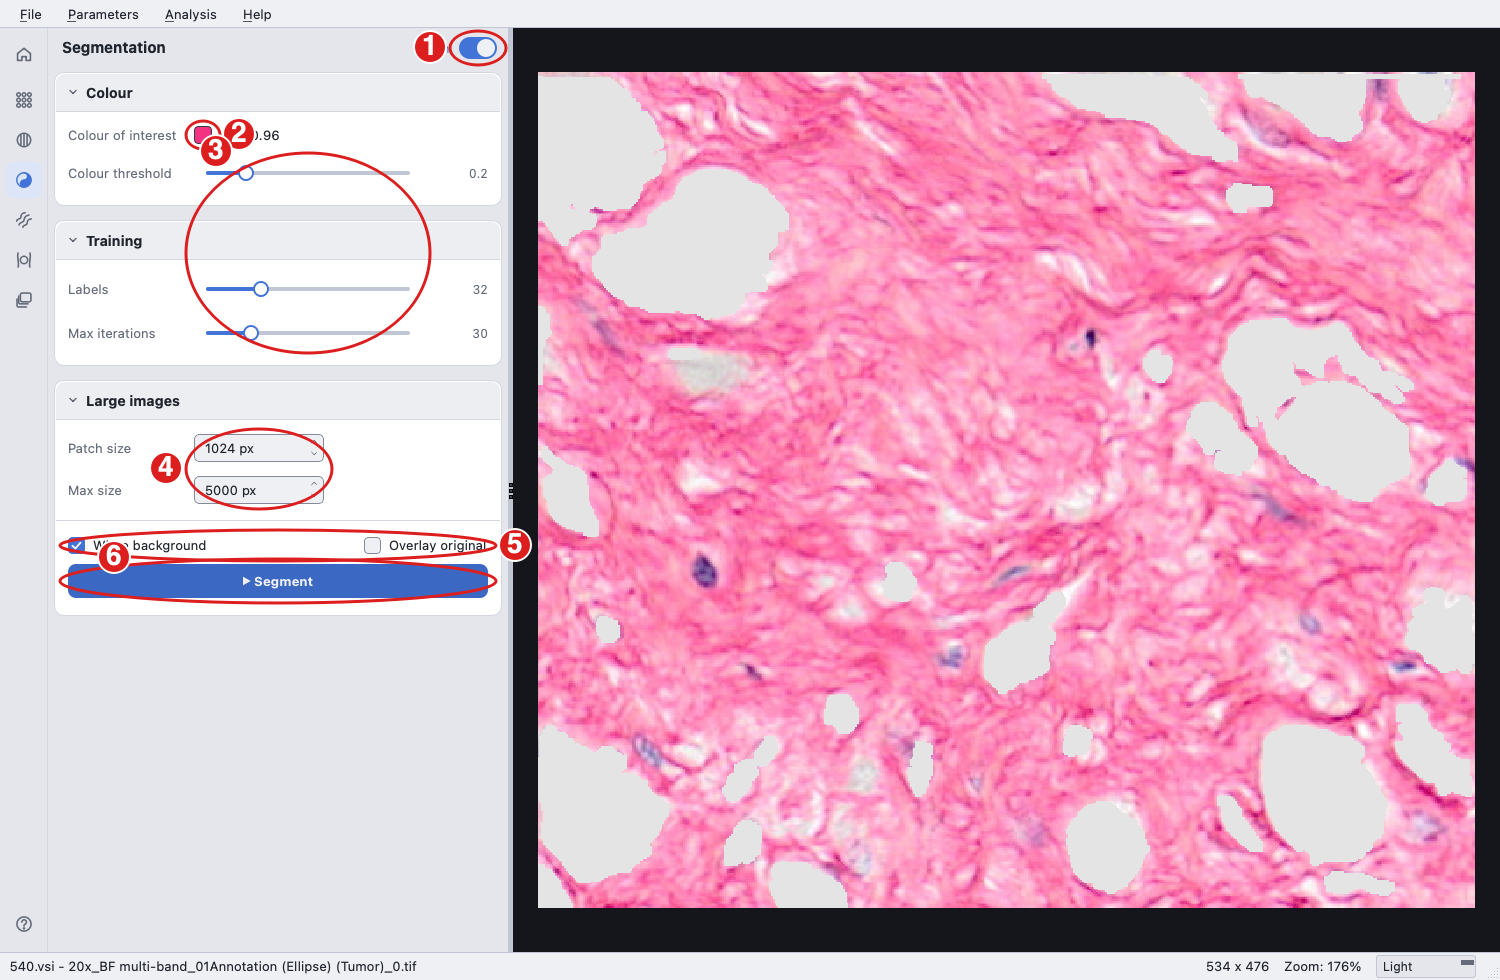
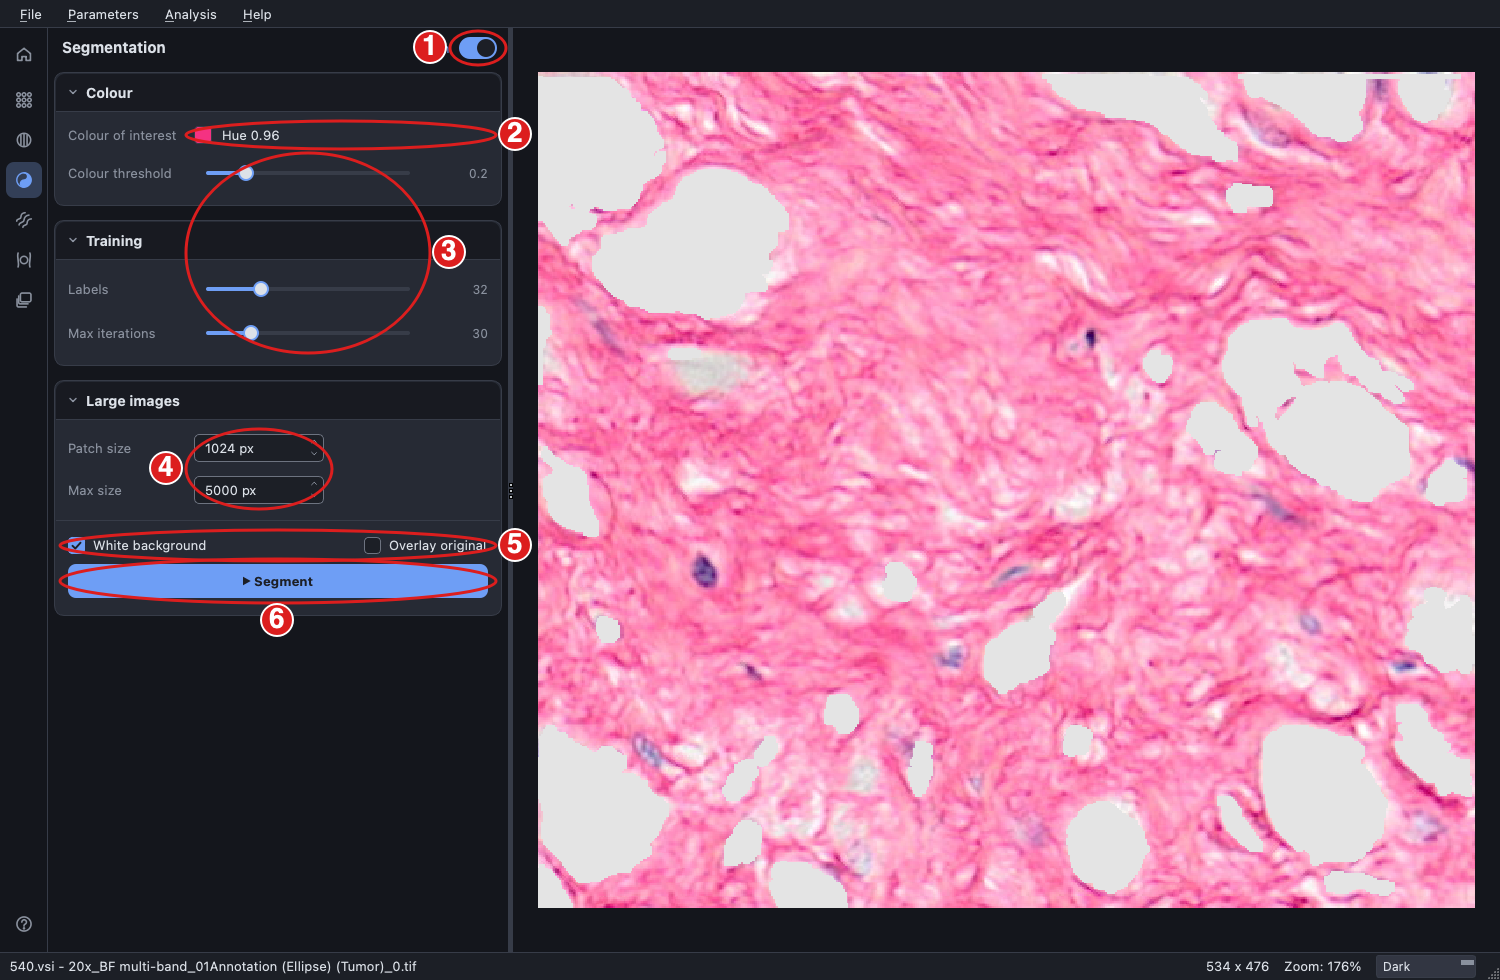
Documentation screenshots in the Dark theme

diff --git a/docs/make_screenshots.py b/docs/make_screenshots.py
@@ -137,15 +137,15 @@ def main(argv):
     app = QApplication.instance() or QApplication([])
     import cabana.cabana_gui as gui
     from cabana.cabana_gui import MainWindow
-    gui.QSettings = _FakeSettings      # the Light screenshots never change the user's theme or folders
+    gui.QSettings = _FakeSettings      # the screenshots never change the user's theme or folders
     MainWindow.check_updates_on_start = False
     MainWindow.startup_messages = False
     win = MainWindow()         # maximises itself to the 800x600 offscreen screen
     win.confirm_on_close = False
     win.showNormal()
     win.resize(1500, 980)
-    if win.theme_combo.currentText() != "Light":
-        win.theme_combo.setCurrentText("Light")
+    if win.theme_combo.currentText() != "Dark":
+        win.theme_combo.setCurrentText("Dark")
     settle(app, 500)
 
     if want("start"):
@@ -166,11 +166,11 @@ def main(argv):
     if want("segmentation"):
         grab(win, "segmentation.png", [
             (1, rect_of(win, win.toggle_seg_btn), "left"),
-            (2, rect_of(win, win.color_btn), "right"),
-            (3, union(win, (win.color_thresh_slider, win.num_labels_slider, win.max_iters_slider))),
+            (2, union(win, (win.color_btn, win.hue_label)), "right"),
+            (3, union(win, (win.color_thresh_slider, win.num_labels_slider, win.max_iters_slider)), "right"),
             (4, union(win, (win.patch_size_spinner, win.seg_max_size_spinner)), "left"),
             (5, union(win, (win.white_bg_cb, win.toggle_img_cb)), "right"),
-            (6, rect_of(win, win.segment_btn)),
+            (6, rect_of(win, win.segment_btn), "below"),
         ])
 
     if analysis:
